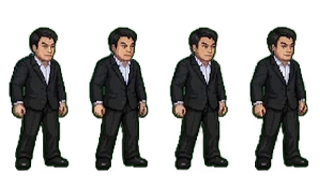
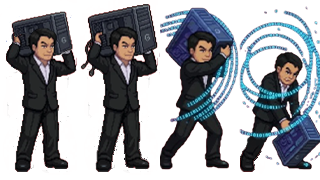
feat(game): finalize Pao character implementation

diff --git a/skill.py b/skill.py
@@ -104,7 +104,7 @@ class PacMan_Chomp(BaseSkill):
             knockback=(380, -260), stun=0.5,
             tags={"chomp"},
         )
-        self.play_pose(caster, "rush", self.DASH_TIME + 0.1)
+        self.play_pose(caster, "rush", self.SHEET_TIME)
         caster.burst(14, S.YELLOW if hasattr(S, "YELLOW") else S.P1_COLOR, 260)
 
 
@@ -125,9 +125,8 @@ class Power_Pellet(BaseSkill):
         # move_speed_multiplier, ดูดซับดาเมจตอนการ์ด) ทำงานต่อเนื่อง
         caster.add_status(self.BUFF_STATUS, self.BUFF_TIME)
         caster.hp += self.HEAL
-        # caster.stamina += self.ENERGY_COST
-        caster.state_machine.change(State.CAST, lock=1.2)
-        self.play_pose(caster, "cast", 1.2)
+        caster.state_machine.change(State.CAST, lock=self.SHEET_TIME)
+        self.play_pose(caster, "cast", self.SHEET_TIME)
         caster.burst(20, S.WHITE, 240)
 
 
@@ -192,8 +191,8 @@ class CriticalRoast(BaseSkill):
     SHEET_TIME = 0.3
 
     def execute(self, caster: Fighter, target: Fighter) -> None:
-        caster.state_machine.change(State.CAST, lock=0.3)
-        self.play_pose(caster, "throw", 0.3)
+        caster.state_machine.change(State.CAST, lock=self.SHEET_TIME)
+        self.play_pose(caster, "throw", self.SHEET_TIME)
 
         mult = caster.outgoing_damage_multiplier()
 
@@ -224,7 +223,7 @@ class ShutUp(BaseSkill):
     SHEET_TIME = 0.35
 
     def execute(self, caster: Fighter, target: Fighter) -> None:
-        caster.state_machine.change(State.CAST, lock=0.35)
+        caster.state_machine.change(State.CAST, lock=self.SHEET_TIME)
         caster.vel.x = -850 * caster.facing
         # คลื่นเสียง: hitbox กว้างด้านหน้า ดาเมจต่ำแต่ผลักแรง ป้องกันไม่ได้
         caster.hitbox.arm(
@@ -234,7 +233,7 @@ class ShutUp(BaseSkill):
             knockback=(1100, -700), unblockable=True,
             stun=0.5, tags={"shout"},
         )
-        self.play_pose(caster, "cast", 0.35)
+        self.play_pose(caster, "cast", self.SHEET_TIME)
         caster.burst(22, S.WHITE, 340)
 
 
@@ -250,9 +249,9 @@ class EmotionalDamage(BaseSkill):
 
     def execute(self, caster: Fighter, target: Fighter) -> None:
         mult = caster.outgoing_damage_multiplier()
-        caster.state_machine.change(State.CAST, lock=0.45)
+        caster.state_machine.change(State.CAST, lock=self.SHEET_TIME)
         caster.vel.x = 0
-        self.play_pose(caster, "cast", 0.45)
+        self.play_pose(caster, "cast", self.SHEET_TIME)
 
         # 1 คลื่นเสียงระยะประชิดหน้าตัวละคร
         caster.hitbox.arm(
@@ -296,19 +295,20 @@ class CPUSmash(BaseSkill):
     COOLDOWN = 9.0
     ENERGY_COST = 30.0
     ICON = "skill/pao_iconskill_1.png"
-    SHEET_PATH = "imageFolder/cpu_smash_sheet.png"   # sprite sheet 1 แถว 4 เฟรม (ไม่ใส่ = ใช้ท่าต่อย)
+    SHEET_PATH = "imageFolder/pao_skill1.png"
+    SHEET_TIME = 0.6
 
     def execute(self, caster: Fighter, target: Fighter) -> None:
-        caster.state_machine.change(State.CAST, lock=0.6)
+        caster.state_machine.change(State.CAST, lock=0.5)
         caster.vel.x = 0
         caster.hitbox.arm(
-            damage=(12 + 12 * caster.power) * caster.outgoing_damage_multiplier(),
-            width=170, height=170, offset_x=80, offset_y=120,
-            windup=0.25, active=0.2,
+            damage=(13 + 13 * caster.power) * caster.outgoing_damage_multiplier(),
+            width=65, height=170, offset_x=80, offset_y=120,
+            windup=0.25, active=0.3,
             knockback=(350, -500), unblockable=True,
-            stun=0.7, tags={"cpu_smash"},
+            stun=0.9, tags={"cpu_smash"},
         )
-        self.play_pose(caster, "cast", 0.6)
+        self.play_pose(caster, "cast", self.SHEET_TIME)
         caster.burst(20, S.WHITE, 320)
 
 class OverclockCharge(BaseSkill):
@@ -317,53 +317,84 @@ class OverclockCharge(BaseSkill):
     COOLDOWN = 8.0
     ENERGY_COST = 25.0
     ICON = "skill/pao_iconskill_2.png"
-    SHEET_PATH = None            # ใส่ path ของ sprite sheet ถ้ามี (ไม่ใส่ = ใช้ท่าต่อย)
-    BUFF_STATUS = "kinetic"      # status ที่ให้โบนัสความเร็ว (Jack ใช้อยู่)
-    BUFF_TIME = 4.0
-    CHARGE_TIME = 0.4           # ช่วงชาร์จก่อนพุ่ง
-    DASH_TIME = 0.35
-    DASH_SPEED = 1000.0
+    SHEET_PATH = "imageFolder/pao_skill2.png"
+    CHARGE_TIME = 0.8
+    SHEET_TIME = CHARGE_TIME * 1.3
+    DASH_SPEED = 800.0
+    DASH_DISTANCE = 350.0
+
+    # derived from speed + distance, not set by hand
+    _DASH_DURATION = DASH_DISTANCE / DASH_SPEED
 
     def __init__(self) -> None:
         super().__init__()
         self._caster: Optional[Fighter] = None
         self._charge_left = 0.0
+        self._dashing = False
+        self._dash_start_x = 0.0
 
     def execute(self, caster: Fighter, target: Fighter) -> None:
-        # จังหวะ 1: ชาร์จพลัง + บัฟ
+        self._dashing = False
         self._caster, self._charge_left = caster, self.CHARGE_TIME
-        caster.add_status(self.BUFF_STATUS, self.BUFF_TIME)
         caster.vel.x = 0
-        caster.state_machine.change(State.CAST, lock=self.CHARGE_TIME + self.DASH_TIME + 0.1)
-        self.play_pose(caster, "cast", self.CHARGE_TIME)
+        caster.state_machine.change(
+            State.CAST, lock=self.CHARGE_TIME + self._DASH_DURATION + 0.1
+        )
+        self.play_pose(caster, "cast", self.SHEET_TIME)
         caster.burst(24, S.WHITE, 300)
+
+    def _end(self) -> None:
+        c = self._caster
+        if c is not None and c.state_machine.state != State.HIT:
+            c.vel.x = 0
+        self._charge_left = 0.0
+        self._dashing = False
+        self._caster = None
 
     def update(self, dt: float) -> None:
         super().update(dt)
         c = self._caster
-        if c is None or self._charge_left <= 0:
+        if c is None:
             return
-        if c.is_ko or c.state_machine.state == State.HIT:   # ถูกขัดจังหวะ
-            self._charge_left = 0.0
-            return
-        self._charge_left -= dt
+
+        # if c.is_ko:
+        #     self._end()
+        #     return
+
+        # Phase 1: Charge (the only interruptible phase)
         if self._charge_left > 0:
+            if c.state_machine.state == State.HIT:
+                self._end()
+                return
+
+            self._charge_left -= dt
+            if self._charge_left <= 0:
+                self._charge_left = 0.0
+                self._dashing = True
+                self._dash_start_x = c.pos.x
+
+                c.vel.x = c.facing * self.DASH_SPEED
+                c.hitbox.arm(
+                    damage=(13 + 13 * c.power) * c.outgoing_damage_multiplier() * 1.3,
+                    width=120, height=140, offset_x=60, offset_y=105,
+                    windup=0.0, active=self._DASH_DURATION, knockback=(850, -500),
+                    stun=0.6, tags={"overclock"},
+                )
+                c.burst(20, S.P1_COLOR, 340)
             return
-        # จังหวะ 2: พุ่งชน
-        c.vel.x = c.facing * self.DASH_SPEED
-        c.hitbox.arm(
-            damage=(13 + 13 * c.power) * c.outgoing_damage_multiplier() * 1.3,
-            width=120, height=140, offset_x=60, offset_y=105,
-            windup=0.0, active=self.DASH_TIME,
-            knockback=(850, -500), stun=0.6,
-            tags={"overclock"},
-        )
-        self.play_pose(c, "rush", self.DASH_TIME)
-        c.burst(20, S.P1_COLOR, 340)
+
+        if self._dashing:
+            if c.state_machine.state == State.HIT:
+                self._end()
+                return
+
+            c.vel.x = c.facing * self.DASH_SPEED
+            if abs(c.pos.x - self._dash_start_x) >= self.DASH_DISTANCE:
+                self._end()
 
     def reset(self) -> None:
         super().reset()
-        self._charge_left = 0.0
+        self._end()
 
 class BlueScreen_Crash(BaseSkill):
     NAME = "Blue Screen Crash"
@@ -371,30 +402,67 @@ class BlueScreen_Crash(BaseSkill):
     COOLDOWN = 8.0
     ENERGY_COST = 30.0
     ICON = "skill/pao_iconskill_3.png"
-    SHEET_PATH = None              # ใส่ path ของ sprite sheet ถ้ามี (ไม่ใส่ = ใช้ท่าต่อย)
-    BLUE = (40, 90, 220)           # สีฟ้าแบบ Blue Screen
+    SHEET_PATH = "imageFolder/pao_skill3.png"
+    SHEET_TIME = 0.8
+    CHARGE_TIME = SHEET_TIME / 4
+    HIT_TIME = (SHEET_TIME / 4) * 3
+    DASH_SPEED = 350.0
+    BLUE = (67, 255, 255)
+
+    def __init__(self) -> None:
+        super().__init__()
+        self._caster: Optional[Fighter] = None
+        self._charge_left = 0.0
+        self._hit_left = 0.0
 
     def execute(self, caster: Fighter, target: Fighter) -> None:
-        caster.state_machine.change(State.CAST, lock=0.7)
+        self._caster = caster
+        self._charge_left = self.CHARGE_TIME
+        self._hit_left = self.HIT_TIME
+
         caster.vel.x = 0
-        # คลื่นกระแทกวงกว้าง: hitbox กว้างครอบทั้งสองข้างของตัวละคร ต่ำติดพื้น
+        caster.state_machine.change(State.CAST, lock=self.SHEET_TIME)
+
         caster.hitbox.arm(
             damage=(13 + 13 * caster.power) * caster.outgoing_damage_multiplier(),
-            width=550, height=70, offset_x=0, offset_y=50,
-            windup=0.3, active=0.15,
-            knockback=(520, -420), unblockable=True,
+            width=550, height=30, offset_x=0, offset_y=50,
+            windup=0.6, active=0.15,
+            knockback=(520, -200), unblockable=True,
             stun=1.0, tags={"blue_screen"},
         )
-        self.play_pose(caster, "attack", 0.7)
-        caster.burst(14, self.BLUE, 220)
-        # คลื่นฝุ่นริมพื้นสองฝั่ง
-        w = caster.world
-        if w is not None:
-            for side in (-1, 1):
-                for i in range(1, 5):
-                    w.spawn_particles(caster.pos.x + side * i * 70, S.GROUND_Y,
-                                      self.BLUE, 6, 260)
 
+        self.play_pose(caster, "attack", self.SHEET_TIME)
+        caster.burst(14, self.BLUE, 220)
+
+    def update(self, dt: float) -> None:
+        super().update(dt)
+        c = self._caster
+        if c is None:
+            return
+
+        if self._charge_left > 0:
+            self._charge_left -= dt
+            if self._charge_left <= 0:
+                c.vel.x = c.facing * self.DASH_SPEED
+
+        
+
+        if self._hit_left > 0:
+            self._hit_left -= dt
+            if self._hit_left <= 0:
+                # คลื่นฝุ่นริมพื้นสองฝั่ง
+                w = c.world
+                if w is not None:
+                    for side in (-1, 1):
+                        for i in range(1, 5):
+                            w.spawn_particles( c.pos.x + side * i * 70, S.GROUND_Y, self.BLUE, 6, 260 )
+                self._caster = None
+
+    # def reset(self) -> None:
+    #     super().reset()
+    #     self._caster = None
+    #     self._charge_left = 0.0
+    #     self._hit_left = 0.0
 
 # ================================================================== Piya
 class PhantomDash(BaseSkill):

diff --git a/entities.py b/entities.py
@@ -740,7 +740,7 @@ class Oat(Fighter):
 
 class Jin(Fighter):
     NAME = "Jinn"
-    TITLE = "The Hole Destroyer"
+    TITLE = "The Hole Penetration"
     BASE_STATS = {"PWR": 90, "DEF": 65, "SPD": 100}
     SHEET_PATH = "imageFolder/jinn_sheet.png"
     PORTRAIT_PATH="imageFolder/jinn_portrait.png"
